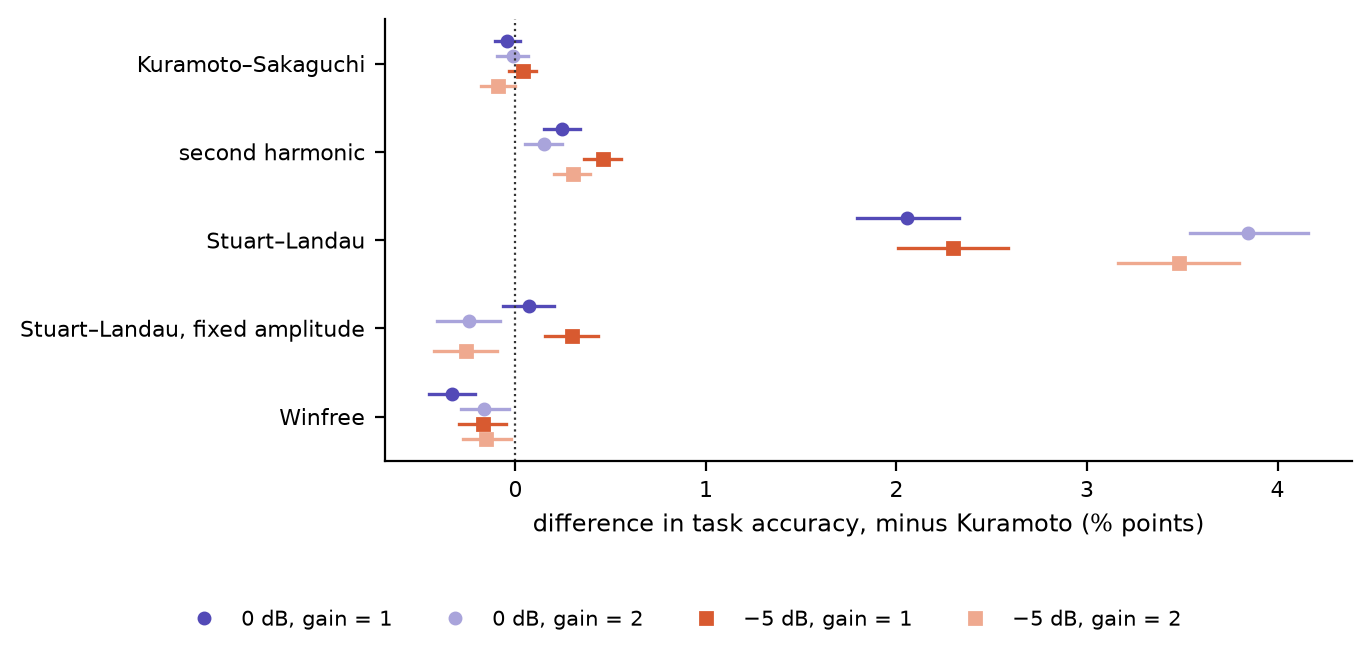
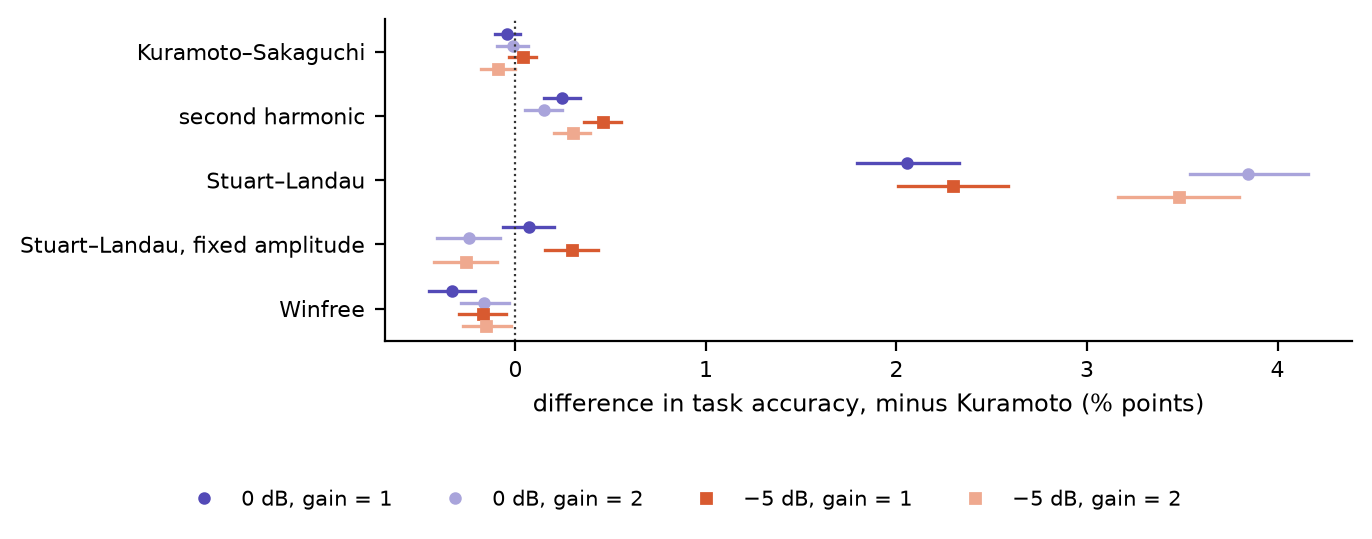
tighten the coupling-function and natural-frequency figures' rows and margins

diff --git a/papers/02-untrained-reservoirs/src/harness/experiment/figures.py b/papers/02-untrained-reservoirs/src/harness/experiment/figures.py
@@ -435,10 +435,10 @@ def design_factor_figure(panel: int, stem: str, across: bool = False, by: dict |
     if across:
         fig, ax = plt.subplots(figsize=(9.0, 2.9))
     else:
-        height = 0.36 * n + 1.5
+        height = 0.3 * n + 1.2
         fig, ax = plt.subplots(figsize=(7.0, height))
     for i, (noise, gain, legend, colour, marker) in enumerate(CONDITIONS):
-        offset = (i - 1.5) * 0.17
+        offset = (i - 1.5) * (0.17 if across else 0.18)
         for j, (level, _) in enumerate(levels):
             r = by.get((f"{factor}: {level} minus {ref}", noise, gain))
             if r is None:
@@ -449,7 +449,7 @@ def design_factor_figure(panel: int, stem: str, across: bool = False, by: dict |
                         label=legend if j == 0 else None)
             else:
                 ax.plot(r["ci95"], [j + offset] * 2, color=colour, linewidth=1.2)
-                ax.plot(r["mean"], j + offset, marker=marker, color=colour, markersize=4, linestyle="none",
+                ax.plot(r["mean"], j + offset, marker=marker, color=colour, markersize=3.5, linestyle="none",
                         label=legend if j == 0 else None)
     labels = [label.replace(", ", ",\n") if across else label for _, label in levels]
     if across:
